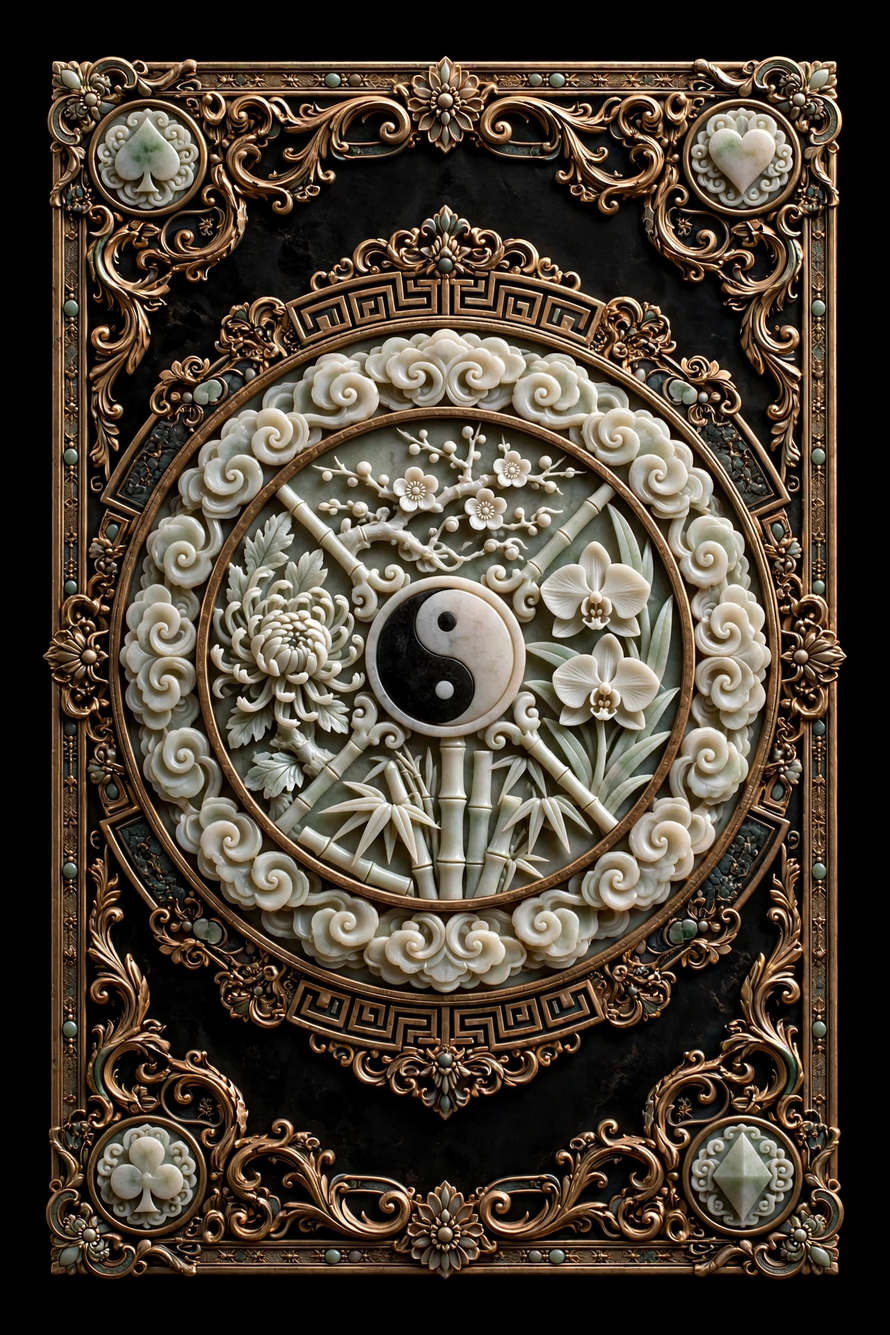
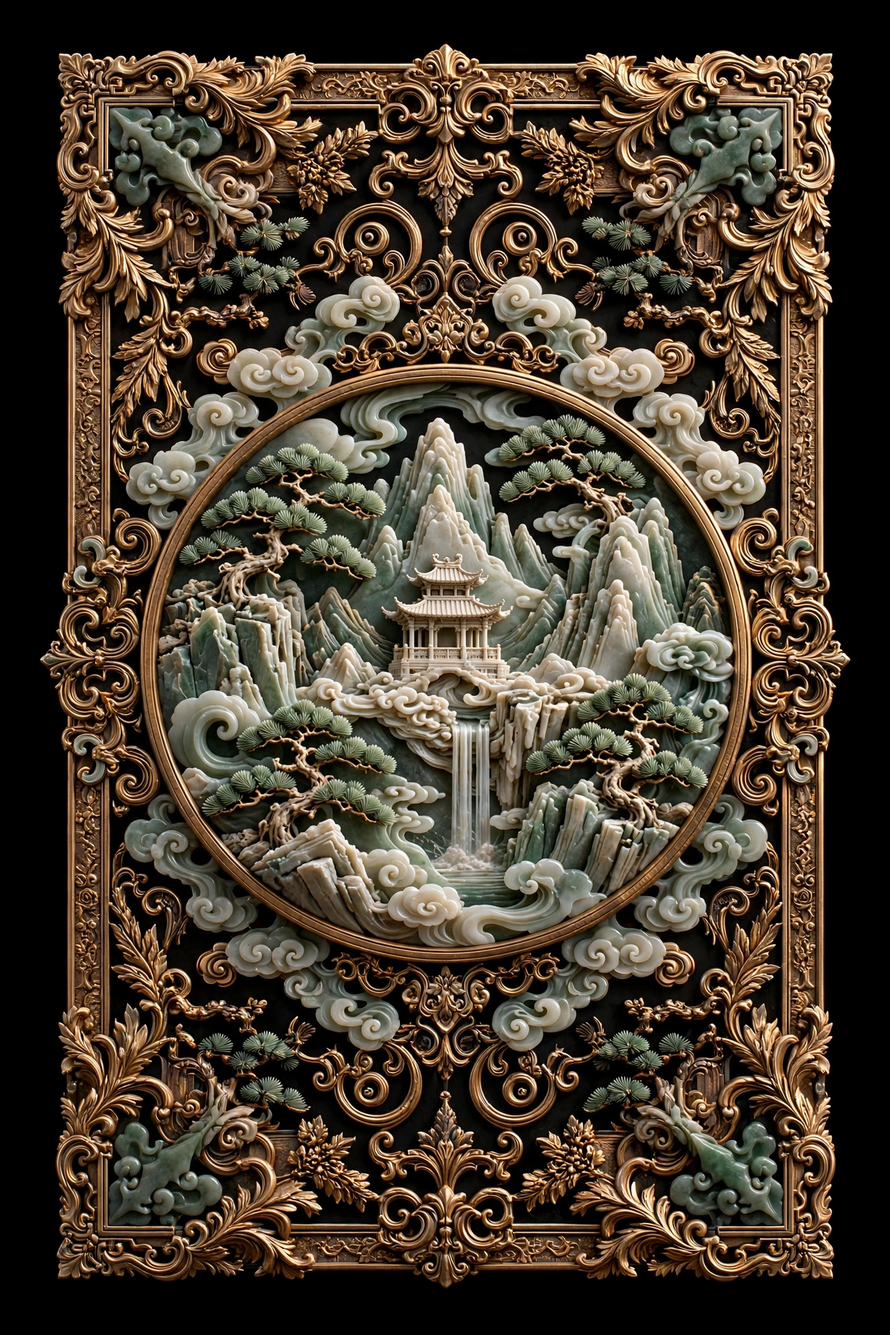
v3：新卡背玉石山水+排版优化+全屏看牌

diff --git a/index.html b/index.html
@@ -6,25 +6,38 @@
 <title>玉石浮雕卡牌馆</title>
 <style>
 *{margin:0;padding:0;box-sizing:border-box;-webkit-tap-highlight-color:transparent}
-body{background:radial-gradient(1200px 600px at 50% -100px,#1c1610 0%,#0d0b08 60%);color:#e8dcc0;font-family:"Songti SC","STSong",serif;max-width:1100px;margin:0 auto;padding:0 14px 70px;min-height:100vh}
-header{text-align:center;padding:46px 10px 18px}
-header h1{font-size:30px;letter-spacing:10px;color:#d4af37;font-weight:600;text-shadow:0 0 24px rgba(212,175,55,.35)}
-header p{margin-top:10px;color:#9a8a68;font-size:13px;letter-spacing:3px}
+body{background:radial-gradient(1200px 600px at 50% -100px,#1c1610 0%,#0d0b08 60%);color:#e8dcc0;font-family:"Songti SC","STSong","SimSun",serif;max-width:1100px;margin:0 auto;padding:0 14px 70px;min-height:100vh}
+/* ---------- header ---------- */
+header{text-align:center;padding:52px 10px 22px}
+header .kicker{font-size:11px;letter-spacing:6px;color:#8a7a58;margin-bottom:14px}
+header h1{font-size:34px;letter-spacing:12px;color:#d4af37;font-weight:600;text-shadow:0 0 26px rgba(212,175,55,.35);text-indent:12px}
+header .en{margin-top:12px;font-size:11px;letter-spacing:5px;color:#8a7a58;font-family:Georgia,serif}
+header .rule{display:flex;align-items:center;gap:12px;justify-content:center;margin-top:18px;color:#6b5426}
+header .rule::before,header .rule::after{content:"";height:1px;width:120px;background:linear-gradient(90deg,transparent,#6b5426)}
+header .rule::after{background:linear-gradient(90deg,#6b5426,transparent)}
+header .rule span{font-size:14px}
+/* ---------- toolbar ---------- */
 .toolbar{position:sticky;top:0;z-index:20;background:rgba(13,11,8,.94);backdrop-filter:blur(8px);padding:10px 0;border-bottom:1px solid #3a2f1c}
 .toolbar .row{display:flex;justify-content:center;gap:8px;flex-wrap:wrap;margin-bottom:8px}
 .toolbar .row:last-child{margin-bottom:0}
 .btn{color:#d4af37;background:transparent;border:1px solid #6b5426;border-radius:20px;font-size:13px;letter-spacing:2px;padding:7px 16px;font-family:inherit;cursor:pointer}
 .btn.on{background:#2a2113}
-.navlink{color:#d4af37;text-decoration:none;font-size:14px;letter-spacing:6px;padding:7px 20px;border:1px solid #6b5426;border-radius:20px}
-.cat{margin-top:46px;scroll-margin-top:110px}
-.cat>h2{font-size:22px;letter-spacing:12px;color:#d4af37;text-align:center;margin-bottom:6px;text-shadow:0 0 18px rgba(212,175,55,.3)}
-.cat>.sub{color:#9a8a68;text-align:center;font-size:12px;letter-spacing:2px;margin-bottom:22px}
-.theme{margin-bottom:38px}
-.theme>h3{font-size:16px;letter-spacing:4px;color:#e8dcc0;border-left:3px solid #d4af37;padding-left:10px;margin-bottom:16px}
-.grid{display:grid;grid-template-columns:repeat(2,1fr);gap:18px 14px}
+.navlink{color:#d4af37;text-decoration:none;font-size:14px;letter-spacing:6px;padding:7px 20px;border:1px solid #6b5426;border-radius:20px;text-indent:6px}
+/* ---------- sections ---------- */
+.cat{margin-top:52px;scroll-margin-top:120px}
+.cat-head{text-align:center;margin-bottom:8px}
+.cat-head h2{font-size:24px;letter-spacing:16px;color:#d4af37;text-indent:16px;text-shadow:0 0 18px rgba(212,175,55,.3)}
+.cat-head .divider{display:flex;align-items:center;justify-content:center;gap:10px;margin:10px 0 6px;color:#6b5426;font-size:12px}
+.cat-head .divider::before,.cat-head .divider::after{content:"";height:1px;width:90px;background:linear-gradient(90deg,transparent,#6b5426)}
+.cat-head .divider::after{background:linear-gradient(90deg,#6b5426,transparent)}
+.cat-head .sub{color:#9a8a68;font-size:12px;letter-spacing:3px;margin-bottom:24px}
+.theme{margin-bottom:40px}
+.theme>h3{font-size:17px;letter-spacing:5px;color:#f0e6cc;border-left:3px solid #d4af37;padding-left:12px;margin-bottom:16px;font-weight:600}
+.theme>h3 small{font-size:11px;color:#9a8a68;letter-spacing:2px;margin-left:8px;font-weight:400}
+.grid{display:grid;grid-template-columns:repeat(2,1fr);gap:20px 14px}
 @media(min-width:700px){.grid{grid-template-columns:repeat(5,1fr)}}
-/* ---- 3D card ---- */
-.deal{animation:deal .7s cubic-bezier(.2,.8,.3,1.1) backwards}
+/* ---------- 3D card ---------- */
+.deal{position:relative;animation:deal .7s cubic-bezier(.2,.8,.3,1.1) backwards}
 @keyframes deal{from{opacity:0;transform:translateY(60px) scale(.85)}to{opacity:1;transform:none}}
 .floaty{animation:hover 5s ease-in-out infinite}
 @keyframes hover{0%,100%{transform:translateY(0)}50%{transform:translateY(-7px)}}
@@ -35,37 +48,70 @@ header p{margin-top:10px;color:#9a8a68;font-size:13px;letter-spacing:3px}
 .face img{width:100%;height:100%;object-fit:cover;display:block;pointer-events:none}
 .face.front{transform:rotateY(180deg)}
 .face.back{background:#000}
-/* 光影 */
-.face.front::after{content:"";position:absolute;inset:0;pointer-events:none;
-background:radial-gradient(420px circle at var(--mx,50%) var(--my,50%),rgba(255,240,200,.28),rgba(255,240,200,0) 55%);
-opacity:var(--sh,0);transition:opacity .3s}
+.face.front::after{content:"";position:absolute;inset:0;pointer-events:none;background:radial-gradient(420px circle at var(--mx,50%) var(--my,50%),rgba(255,240,200,.28),rgba(255,240,200,0) 55%);opacity:var(--sh,0);transition:opacity .3s}
 .deal.flipped .face.front::after{--sh:1}
-.sheen{position:absolute;inset:-40%;pointer-events:none;transform:rotate(18deg);
-background:linear-gradient(100deg,transparent 42%,rgba(255,244,214,.16) 50%,transparent 58%);
-animation:sheen 6s ease-in-out infinite}
+.sheen{position:absolute;inset:-40%;pointer-events:none;transform:rotate(18deg);background:linear-gradient(100deg,transparent 42%,rgba(255,244,214,.16) 50%,transparent 58%);animation:sheen 6s ease-in-out infinite}
 @keyframes sheen{0%,55%{transform:translateX(-70%) rotate(18deg)}90%,100%{transform:translateX(70%) rotate(18deg)}}
-.cap{text-align:center;padding:9px 4px 0}
-.cap .t{font-size:13px;letter-spacing:1px;color:#e8dcc0}
-.cap .r{font-size:11px;color:#9a8a68;margin-top:3px;letter-spacing:2px}
-.hint{text-align:center;color:#6b5f45;font-size:12px;letter-spacing:2px;margin:26px 0 6px}
-footer{text-align:center;margin-top:46px;color:#6b5f45;font-size:12px;letter-spacing:2px}
+.expand{position:absolute;top:8px;right:8px;z-index:5;width:30px;height:30px;border-radius:50%;border:1px solid #d4af37;background:rgba(10,8,5,.72);color:#d4af37;font-size:15px;line-height:1;cursor:pointer;display:flex;align-items:center;justify-content:center}
+.cap{text-align:center;padding:10px 4px 0}
+.cap .t{font-size:15px;font-weight:600;letter-spacing:2px;color:#f0e6cc}
+.cap .r{font-size:13px;margin-top:5px;letter-spacing:3px;color:#9a8a68}
+.cap .r .s-bk{color:#d4af37}
+.cap .r .s-rd{color:#e0645a}
+.hint{text-align:center;color:#6b5f45;font-size:12px;letter-spacing:2px;margin:26px 0 6px;line-height:2}
+footer{text-align:center;margin-top:50px;color:#6b5f45;font-size:12px;letter-spacing:3px;line-height:2}
+/* ---------- fullscreen viewer ---------- */
+#viewer{position:fixed;inset:0;z-index:100;display:none;align-items:center;justify-content:center;background:rgba(5,4,2,.94);backdrop-filter:blur(10px)}
+#viewer.show{display:flex}
+.v-stage{perspective:1100px;text-align:center;max-height:100vh;overflow-y:auto;padding:20px 0}
+.v-tilt{transition:transform .25s ease;transform:rotateX(var(--rx,0deg)) rotateY(var(--ry,0deg))}
+.v-flip{position:relative;width:min(78vw,330px);aspect-ratio:3/4.4;margin:0 auto;transform-style:preserve-3d;transition:transform .8s cubic-bezier(.3,.7,.3,1.2);cursor:pointer}
+#viewer.flipped .v-flip{transform:rotateY(180deg)}
+.v-cap{margin-top:18px}
+.v-cap .t{font-size:20px;font-weight:600;letter-spacing:4px;color:#f0e6cc}
+.v-cap .r{font-size:14px;letter-spacing:4px;color:#9a8a68;margin-top:8px}
+.v-cap .r .s-bk{color:#d4af37}
+.v-cap .r .s-rd{color:#e0645a}
+.v-cap .i{font-size:11px;letter-spacing:3px;color:#6b5f45;margin-top:8px;font-family:Georgia,serif}
+.v-btn{position:absolute;top:50%;transform:translateY(-50%);width:46px;height:46px;border-radius:50%;border:1px solid #6b5426;background:rgba(20,16,10,.8);color:#d4af37;font-size:22px;cursor:pointer;z-index:2}
+#vPrev{left:12px}
+#vNext{right:12px}
+#vClose{position:absolute;top:16px;right:16px;width:42px;height:42px;border-radius:50%;border:1px solid #6b5426;background:rgba(20,16,10,.8);color:#d4af37;font-size:20px;cursor:pointer;z-index:2}
+.v-hint{position:absolute;bottom:18px;width:100%;text-align:center;color:#6b5f45;font-size:11px;letter-spacing:2px}
 </style>
 </head>
 <body>
 <header>
+<div class="kicker">3D 玉石浮雕 · 扑克牌艺术</div>
 <h1>玉石浮雕卡牌馆</h1>
-<p>点击卡牌翻面 · 75 张玉石浮雕扑克</p>
+<div class="en">JADE RELIEF PLAYING CARDS</div>
+<div class="rule"><span>❖</span></div>
 </header>
 <div class="toolbar">
 <div class="row"><a class="navlink" href="#mingzhu">名著</a><a class="navlink" href="#manhua">漫画</a><a class="navlink" href="#youxi">游戏</a></div>
 <div class="row"><button class="btn" id="flipAll">全部翻面</button><button class="btn" id="shuffle">洗牌</button></div>
 </div>
-<div class="hint">↑ 点任意一张牌翻开 / 再点扣回 ↑</div>
+<div class="hint">点牌翻面 · 点右上角 ⤢ 全屏看牌<br>← → 切换 · ESC 关闭</div>
 <div id="app"></div>
-<footer>玉石浮雕卡牌馆 · 2026</footer>
+<footer>玉石浮雕卡牌馆 · 2026<br>JADE RELIEF PLAYING CARDS</footer>
+
+<div id="viewer">
+<button id="vClose">×</button>
+<button class="v-btn" id="vPrev">‹</button>
+<div class="v-stage">
+<div class="v-tilt"><div class="v-flip" id="vFlip">
+<div class="face back"><img id="vBack" alt="卡背"></div>
+<div class="face front"><img id="vFront" alt="卡面"><div class="sheen"></div></div>
+</div></div>
+<div class="v-cap"><div class="t" id="vT"></div><div class="r" id="vR"></div><div class="i" id="vI"></div></div>
+</div>
+<button class="v-btn" id="vNext">›</button>
+<div class="v-hint">点卡片翻面 · ← → 切换 · ESC 关闭</div>
+</div>
+
 <script>
-const BACK="img/card-back.webp";
-const DATA=[
+var BACK="img/card-back.webp";
+var DATA=[
 {cat:"名著",id:"mingzhu",themes:[
 {t:"西游记",cards:[["xiyou-1-danaotiangong","大闹天宫","黑桃 K"],["xiyou-3-huoyanshan","火焰山借扇","方块 J"],["xiyou-4-shituxixing","师徒西行","梅花 10"],["xiyou-5-zhanerlangshen","大战二郎神","红桃 A"],["xiyou-5-renshenguo","人参果","红桃 Q"]]},
 {t:"三国演义",cards:[["sanguo-1-taoyuansanjieyi","桃园三结义","黑桃 A"],["sanguo-2-guanyuguowuguan","关羽过五关","红桃 K"],["sanguo-3-caochuanjiejian","草船借箭","方块 Q"],["sanguo-4-changbanpo","长坂坡","梅花 J"],["sanguo-5-chibi","赤壁之战","红桃 10"]]},
@@ -88,65 +134,132 @@ const DATA=[
 {t:"宝可梦",cards:[["baokemeng-1-pikaqiu","皮卡丘","红桃 A"],["baokemeng-2-penhuolong","喷火龙","黑桃 K"],["baokemeng-3-chaomeng","超梦","方块 Q"],["baokemeng-4-liekongzuo","裂空座","梅花 J"],["baokemeng-5-yibu","伊布","红桃 10"]]}
 ]}
 ];
-const app=document.getElementById('app');
-let n=0;
+function rankHTML(rank){
+  return rank.replace("黑桃",'<span class="s-bk">♠</span>')
+             .replace("红桃",'<span class="s-rd">♥</span>')
+             .replace("梅花",'<span class="s-bk">♣</span>')
+             .replace("方块",'<span class="s-rd">♦</span>');
+}
+var CARDS=[];
+var app=document.getElementById('app');
+var n=0;
 function cardHTML(f,name,rank){
+  var idx=CARDS.length;
+  CARDS.push({f:f,name:name,rank:rank});
   n++;
   return '<div class="deal" style="animation-delay:'+Math.min(n*18,1400)+'ms">'
+  +'<button class="expand" data-i="'+idx+'" title="全屏看牌">⤢</button>'
   +'<div class="floaty" style="animation-delay:'+((n%7)*0.4)+'s">'
   +'<div class="tilt"><div class="flip">'
   +'<div class="face back"><img loading="lazy" src="'+BACK+'" alt="卡背"></div>'
   +'<div class="face front"><img loading="lazy" src="img/'+f+'.webp" alt="'+name+'"><div class="sheen"></div></div>'
   +'</div></div>'
-  +'<div class="cap"><div class="t">'+name+'</div><div class="r">'+rank+'</div></div>'
+  +'<div class="cap"><div class="t">'+name+'</div><div class="r">'+rankHTML(rank)+'</div></div>'
   +'</div></div>';
 }
 function themeHTML(t){
-  return '<div class="theme"><h3>'+t.t+'</h3><div class="grid">'
+  return '<div class="theme"><h3>'+t.t+'<small>'+t.cards.length+' 张</small></h3><div class="grid">'
   + t.cards.map(function(c){return cardHTML(c[0],c[1],c[2]);}).join('')
   + '</div></div>';
 }
 app.innerHTML=DATA.map(function(c){
-  return '<section class="cat" id="'+c.id+'"><h2>'+c.cat+'</h2>'
-  +'<div class="sub">'+c.themes.length+' 个主题 · '+(c.themes.length*5)+' 张</div>'
+  return '<section class="cat" id="'+c.id+'"><div class="cat-head"><h2>'+c.cat+'</h2>'
+  +'<div class="divider">❖</div>'
+  +'<div class="sub">'+c.themes.length+' 个主题 · '+(c.themes.length*5)+' 张</div></div>'
   + c.themes.map(themeHTML).join('') + '</section>';
 }).join('');
 
-const fine=matchMedia('(hover:hover) and (pointer:fine)').matches;
-document.querySelectorAll('.deal').forEach(d=>{
-  const tilt=d.querySelector('.tilt');
-  d.addEventListener('click',()=>d.classList.toggle('flipped'));
-  if(fine){
-    d.addEventListener('pointermove',e=>{
-      const r=tilt.getBoundingClientRect();
-      const x=(e.clientX-r.left)/r.width-.5, y=(e.clientY-r.top)/r.height-.5;
-      tilt.style.setProperty('--ry',(x*14)+'deg');
-      tilt.style.setProperty('--rx',(-y*14)+'deg');
-      tilt.style.setProperty('--mx',((x+.5)*100)+'%');
-      tilt.style.setProperty('--my',((y+.5)*100)+'%');
-      tilt.style.setProperty('--sh',1);
-    });
-    d.addEventListener('pointerleave',()=>{
-      tilt.style.setProperty('--rx','0deg');tilt.style.setProperty('--ry','0deg');
-      tilt.style.setProperty('--sh',0);
-    });
-  }
-});
-const flipBtn=document.getElementById('flipAll');
-let allFlipped=false;
-flipBtn.addEventListener('click',()=>{
+/* ---------- interactions ---------- */
+var fine=matchMedia('(hover:hover) and (pointer:fine)').matches;
+function bindTilt(scope,el){
+  if(!fine) return;
+  scope.addEventListener('pointermove',function(e){
+    var r=el.getBoundingClientRect();
+    var x=(e.clientX-r.left)/r.width-.5, y=(e.clientY-r.top)/r.height-.5;
+    el.style.setProperty('--ry',(x*14)+'deg');
+    el.style.setProperty('--rx',(-y*14)+'deg');
+    el.style.setProperty('--mx',((x+.5)*100)+'%');
+    el.style.setProperty('--my',((y+.5)*100)+'%');
+    el.style.setProperty('--sh',1);
+  });
+  scope.addEventListener('pointerleave',function(){
+    el.style.setProperty('--rx','0deg');el.style.setProperty('--ry','0deg');
+    el.style.setProperty('--sh',0);
+  });
+}
+var deals=document.querySelectorAll('.deal');
+for(var i=0;i<deals.length;i++){
+  (function(d){
+    var tilt=d.querySelector('.tilt');
+    d.addEventListener('click',function(){d.classList.toggle('flipped');});
+    bindTilt(d,tilt);
+    var ex=d.querySelector('.expand');
+    ex.addEventListener('click',function(e){e.stopPropagation();openViewer(parseInt(ex.getAttribute('data-i'),10));});
+  })(deals[i]);
+}
+var flipBtn=document.getElementById('flipAll'), allFlipped=false;
+flipBtn.addEventListener('click',function(){
   allFlipped=!allFlipped;
-  document.querySelectorAll('.deal').forEach(d=>d.classList.toggle('flipped',allFlipped));
+  for(var i=0;i<deals.length;i++) deals[i].classList.toggle('flipped',allFlipped);
   flipBtn.textContent=allFlipped?'全部扣回':'全部翻面';
   flipBtn.classList.toggle('on',allFlipped);
 });
-document.getElementById('shuffle').addEventListener('click',()=>{
-  document.querySelectorAll('.grid').forEach(g=>{
-    const k=[...g.children];
-    for(let i=k.length-1;i>0;i--){const j=Math.floor(Math.random()*(i+1));[k[i],k[j]]=[k[j],k[i]];}
-    k.forEach((el,i)=>{el.style.animation='none';void el.offsetWidth;el.style.animation='';el.style.animationDelay=(i*60)+'ms';g.appendChild(el);});
-  });
+document.getElementById('shuffle').addEventListener('click',function(){
+  var grids=document.querySelectorAll('.grid');
+  for(var g=0;g<grids.length;g++){
+    var k=[],ch=grids[g].children;
+    for(var i=0;i<ch.length;i++) k.push(ch[i]);
+    for(var j=k.length-1;j>0;j--){var r=Math.floor(Math.random()*(j+1));var tmp=k[j];k[j]=k[r];k[r]=tmp;}
+    for(var m=0;m<k.length;m++){
+      k[m].style.animation='none';void k[m].offsetWidth;k[m].style.animation='';
+      k[m].style.animationDelay=(m*60)+'ms';grids[g].appendChild(k[m]);
+    }
+  }
 });
+/* ---------- fullscreen viewer ---------- */
+var viewer=document.getElementById('viewer'),
+    vFlip=document.getElementById('vFlip'),
+    vTilt=viewer.querySelector('.v-tilt'),
+    vFront=document.getElementById('vFront'),
+    vT=document.getElementById('vT'),
+    vR=document.getElementById('vR'),
+    vI=document.getElementById('vI'),
+    vIdx=0, vTimer=null;
+document.getElementById('vBack').src=BACK;
+function showCard(i){
+  vIdx=(i+CARDS.length)%CARDS.length;
+  var c=CARDS[vIdx];
+  viewer.classList.remove('flipped');
+  vFront.src='img/'+c.f+'.webp';
+  vFront.alt=c.name;
+  vT.textContent=c.name;
+  vR.innerHTML=rankHTML(c.rank);
+  vI.textContent=(vIdx+1)+' / '+CARDS.length;
+  if(vTimer) clearTimeout(vTimer);
+  vTimer=setTimeout(function(){viewer.classList.add('flipped');},280);
+}
+function openViewer(i){
+  viewer.classList.add('show');
+  document.body.style.overflow='hidden';
+  showCard(i);
+}
+function closeViewer(){
+  viewer.classList.remove('show');
+  document.body.style.overflow='';
+  if(vTimer) clearTimeout(vTimer);
+}
+document.getElementById('vClose').addEventListener('click',closeViewer);
+document.getElementById('vPrev').addEventListener('click',function(e){e.stopPropagation();showCard(vIdx-1);});
+document.getElementById('vNext').addEventListener('click',function(e){e.stopPropagation();showCard(vIdx+1);});
+vFlip.addEventListener('click',function(){viewer.classList.toggle('flipped');});
+viewer.addEventListener('click',function(e){if(e.target===viewer) closeViewer();});
+document.addEventListener('keydown',function(e){
+  if(!viewer.classList.contains('show')) return;
+  if(e.key==='Escape') closeViewer();
+  else if(e.key==='ArrowLeft') showCard(vIdx-1);
+  else if(e.key==='ArrowRight') showCard(vIdx+1);
+});
+bindTilt(viewer.querySelector('.v-stage'),vTilt);
 </script>
 </body>
 </html>
